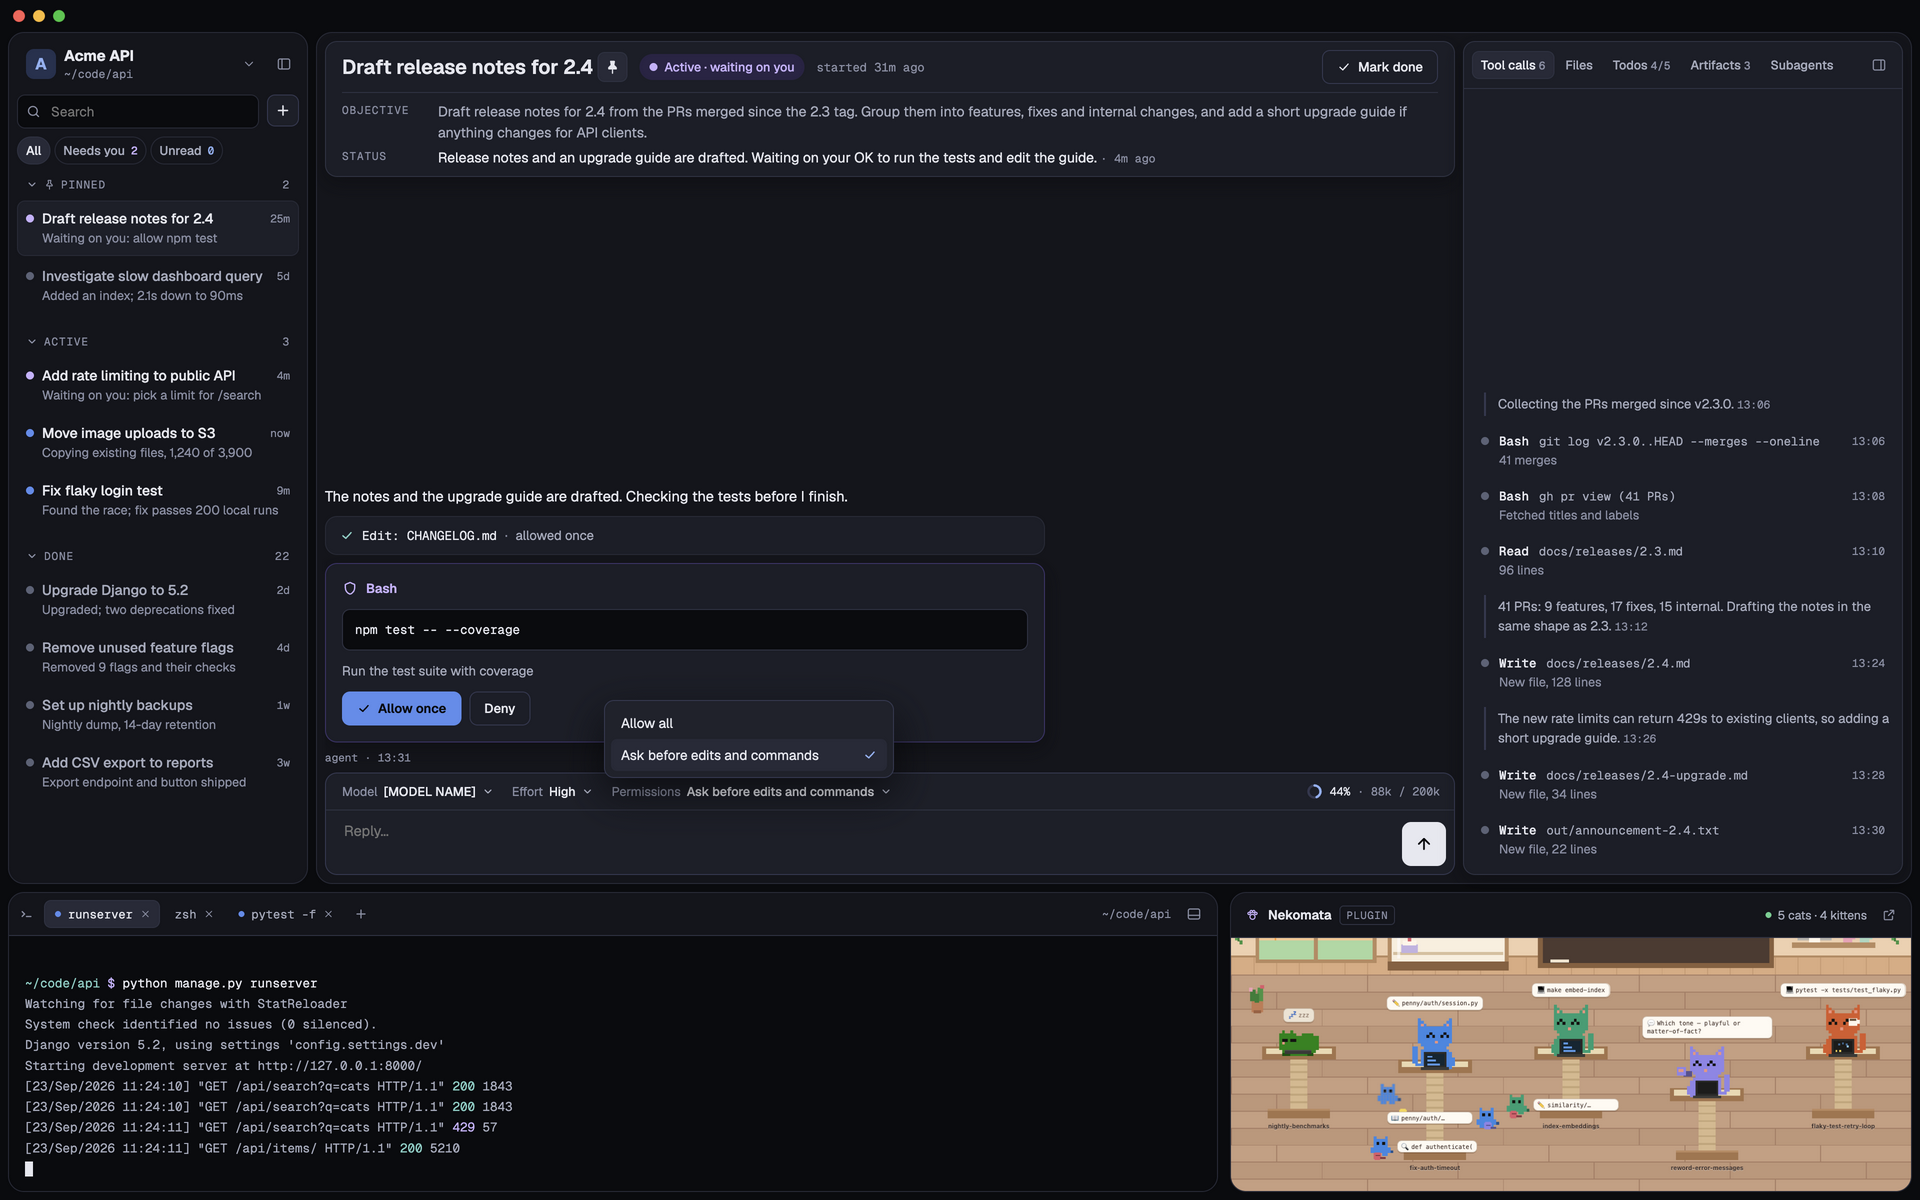
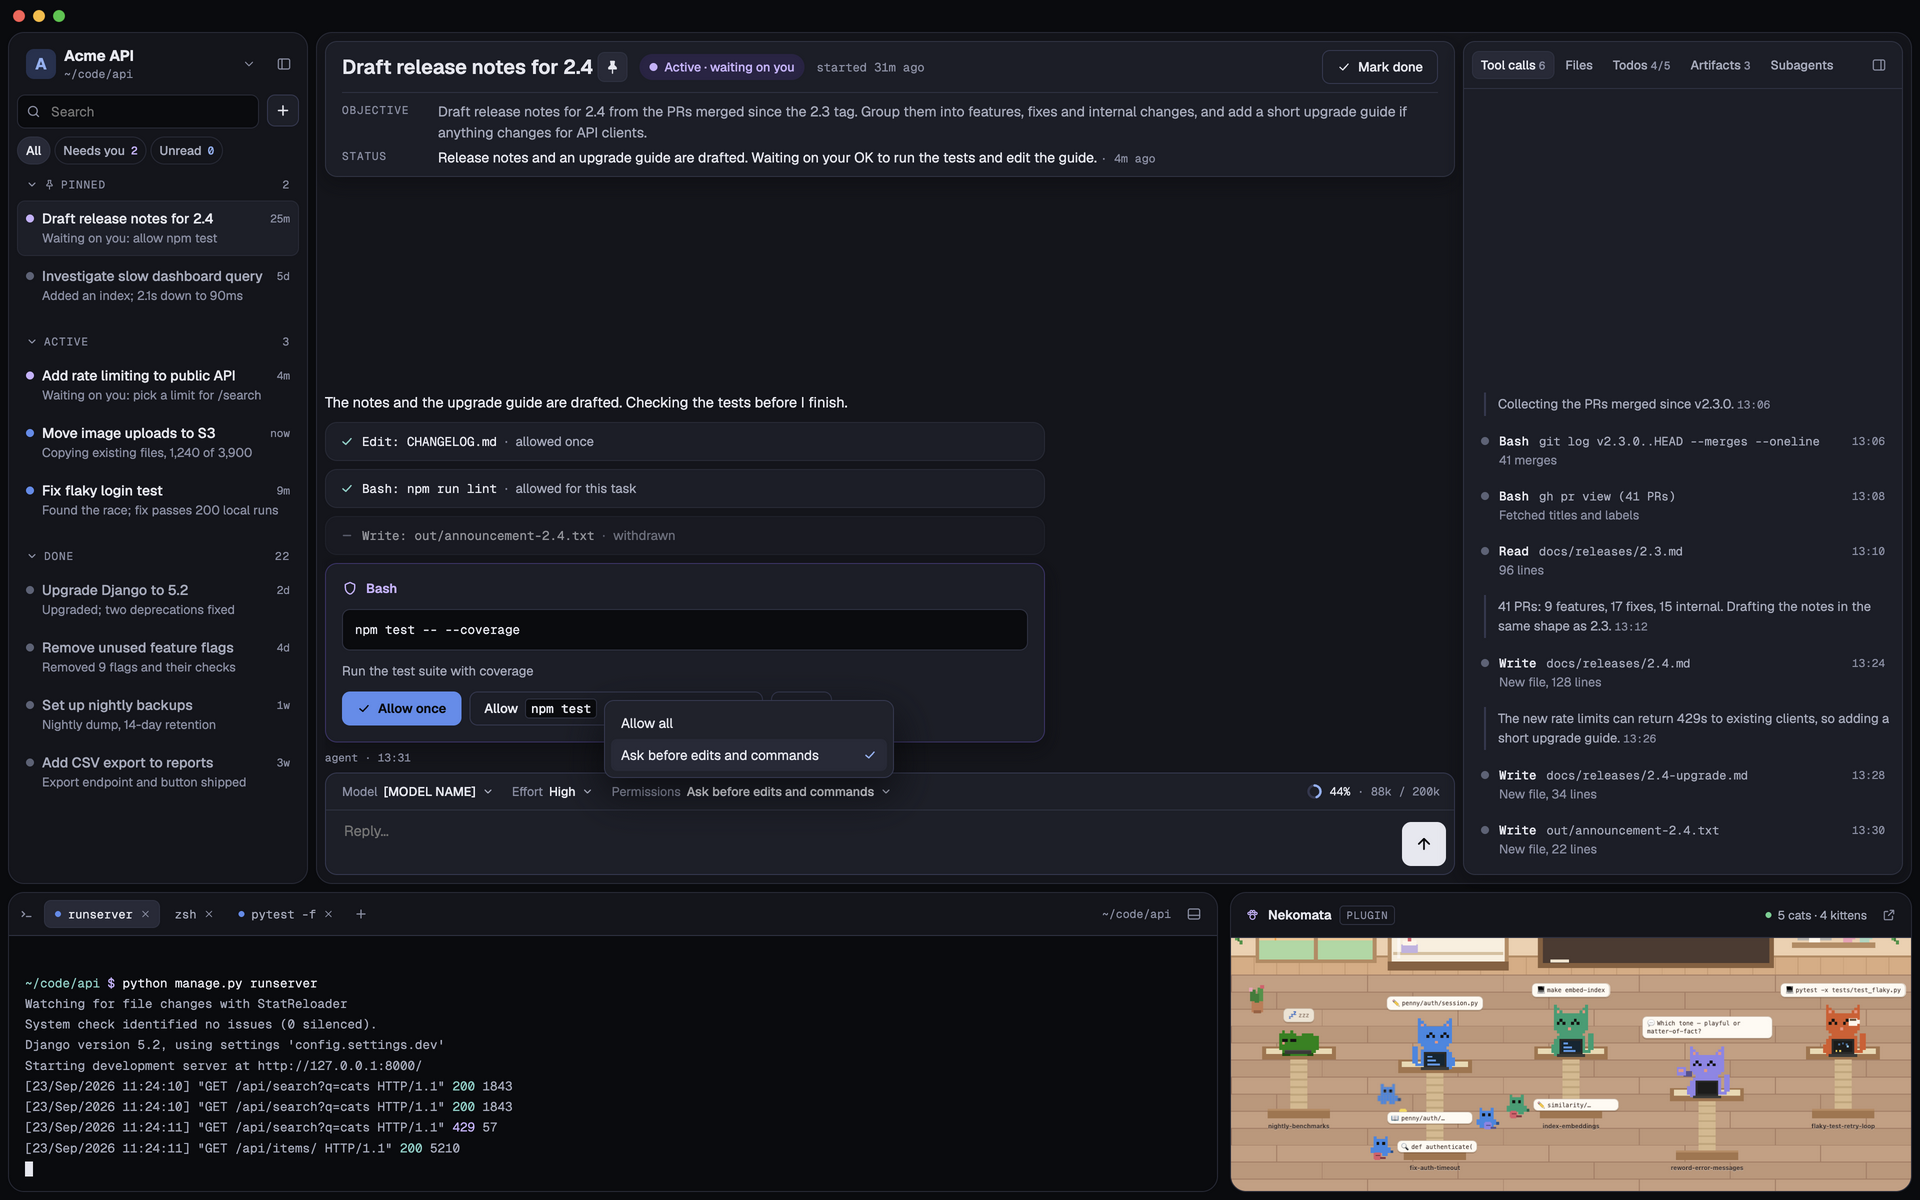
P11-03: design Allow for this task on the permission card

Changed region(s): [[0.1562, 0.4008, 0.4375, 0.4625], [0.1875, 0.3083, 0.4375, 0.37], [0.25, 0.5858, 0.3125, 0.6167]]

diff --git a/docs/design/html/24-permissions-picker.html b/docs/design/html/24-permissions-picker.html
@@ -108,11 +108,13 @@ a{color:#8FB2F5}a:hover{color:#B5CBF8}
 <div style="flex-shrink: 0; display: flex; flex-direction: column; gap: 8px; max-width: 720px">
 <div style="display: flex; flex-direction: column; gap: 10px;  font-size: 14.5px; line-height: 1.6; color: #E6E8F0"><p style="margin: 0">The notes and the upgrade guide are drafted. Checking the tests before I finish.</p></div>
 <div role="region" aria-label="Permission request" style="display: flex; align-items: center; gap: 8px; padding: 10px 14px; background: #1C1E28; border: 1px solid #272A37; border-radius: 12px; font-size: 13px; color: #A6ABBD; white-space: nowrap; overflow: hidden"><span style="display: flex; color: #7FD1C7"><svg width="14" height="14" viewBox="0 0 24 24" fill="none" stroke="currentColor" stroke-width="2.4" stroke-linecap="round" stroke-linejoin="round"><path d="M5 12.5 10 17l9-10"></path></svg></span><span style="font-family: 'Geist Mono', ui-monospace, monospace; font-size: 12.5px; color: #E6E8F0; overflow: hidden; text-overflow: ellipsis">Edit: CHANGELOG.md</span><span style="flex-shrink: 0; color: #8A8FA5">·</span><span style="color: #A6ABBD; overflow: hidden; text-overflow: ellipsis">allowed once</span></div>
+<div role="region" aria-label="Permission request" style="display: flex; align-items: center; gap: 8px; padding: 10px 14px; background: #1C1E28; border: 1px solid #272A37; border-radius: 12px; font-size: 13px; color: #A6ABBD; white-space: nowrap; overflow: hidden"><span style="display: flex; color: #7FD1C7"><svg width="14" height="14" viewBox="0 0 24 24" fill="none" stroke="currentColor" stroke-width="2.4" stroke-linecap="round" stroke-linejoin="round"><path d="M5 12.5 10 17l9-10"></path></svg></span><span style="font-family: 'Geist Mono', ui-monospace, monospace; font-size: 12.5px; color: #E6E8F0; overflow: hidden; text-overflow: ellipsis">Bash: npm run lint</span><span style="flex-shrink: 0; color: #8A8FA5">·</span><span style="color: #A6ABBD; overflow: hidden; text-overflow: ellipsis">allowed for this task</span></div>
+<div role="region" aria-label="Permission request" style="display: flex; align-items: center; gap: 8px; padding: 10px 14px; background: #1C1E28; border: 1px solid #272A37; border-radius: 12px; font-size: 13px; color: #A6ABBD; white-space: nowrap; overflow: hidden; opacity: 0.6"><span style="display: flex; color: #8A8FA5"><svg width="14" height="14" viewBox="0 0 24 24" fill="none" stroke="currentColor" stroke-width="2.4" stroke-linecap="round" stroke-linejoin="round"><path d="M6 12h12"></path></svg></span><span style="font-family: 'Geist Mono', ui-monospace, monospace; font-size: 12.5px; color: #E6E8F0; overflow: hidden; text-overflow: ellipsis">Write: out/announcement-2.4.txt</span><span style="flex-shrink: 0; color: #8A8FA5">·</span><span style="color: #A6ABBD; overflow: hidden; text-overflow: ellipsis">withdrawn</span></div>
 <div role="form" aria-label="Permission request" style="display: flex; flex-direction: column; gap: 12px; padding: 16px; background: #1C1E28; border: 1px solid #3B3366; border-radius: 12px; box-shadow: 0 6px 20px rgba(0,0,0,0.25)">
 <div style="display: flex; align-items: center; gap: 8px; color: #C8B2FF; font-size: 13px; font-weight: 600"><svg width="16" height="16" viewBox="0 0 24 24" fill="none" stroke="currentColor" stroke-width="2" stroke-linecap="round" stroke-linejoin="round"><path d="M12 3 5 6v5c0 4.4 3 8.3 7 9.5 4-1.2 7-5.1 7-9.5V6z"></path></svg>Bash</div>
 <pre style="margin: 0; padding: 10px 12px; background: #0A0B0F; border: 1px solid #2E3242; border-radius: 8px; font-family: 'Geist Mono', ui-monospace, monospace; font-size: 12.5px; line-height: 1.55; color: #E6E8F0; white-space: pre-wrap; overflow-wrap: anywhere">npm test -- --coverage</pre>
 <div style="font-size: 13px; color: #A6ABBD">Run the test suite with coverage</div>
-<div style="display: flex; align-items: center; gap: 8px"><button type="button" style="display: flex; align-items: center; justify-content: center; gap: 7px; height: 34px; padding: 0 14px; border-radius: 8px; font: inherit; font-size: 13px; cursor: pointer; white-space: nowrap; background: #5B8DEF; color: #0A0B0F; border: 1px solid #5B8DEF; font-weight: 600"><svg width="14" height="14" viewBox="0 0 24 24" fill="none" stroke="currentColor" stroke-width="2.4" stroke-linecap="round" stroke-linejoin="round"><path d="M5 12.5 10 17l9-10"></path></svg>Allow once</button><button type="button" style="display: flex; align-items: center; justify-content: center; gap: 7px; height: 34px; padding: 0 14px; border-radius: 8px; font: inherit; font-size: 13px; cursor: pointer; white-space: nowrap; background: transparent; color: #E6E8F0; border: 1px solid #343850; font-weight: 500">Deny</button></div>
+<div style="display: flex; align-items: center; gap: 8px"><button type="button" style="display: flex; align-items: center; justify-content: center; gap: 7px; height: 34px; padding: 0 14px; border-radius: 8px; font: inherit; font-size: 13px; cursor: pointer; white-space: nowrap; background: #5B8DEF; color: #0A0B0F; border: 1px solid #5B8DEF; font-weight: 600"><svg width="14" height="14" viewBox="0 0 24 24" fill="none" stroke="currentColor" stroke-width="2.4" stroke-linecap="round" stroke-linejoin="round"><path d="M5 12.5 10 17l9-10"></path></svg>Allow once</button><button type="button" style="display: flex; align-items: center; justify-content: center; gap: 7px; height: 34px; padding: 0 14px; border-radius: 8px; font: inherit; font-size: 13px; cursor: pointer; white-space: nowrap; background: transparent; color: #E6E8F0; border: 1px solid #343850; font-weight: 500">Allow<code style="font-family: 'Geist Mono', ui-monospace, monospace; font-size: 12.5px; padding: 1px 5px; background: #0A0B0F; border: 1px solid #2E3242; border-radius: 4px">npm test</code>commands for this task</button><button type="button" style="display: flex; align-items: center; justify-content: center; gap: 7px; height: 34px; padding: 0 14px; border-radius: 8px; font: inherit; font-size: 13px; cursor: pointer; white-space: nowrap; background: transparent; color: #E6E8F0; border: 1px solid #343850; font-weight: 500">Deny</button></div>
 </div>
 <span style="font-family: 'Geist Mono', ui-monospace, monospace; font-size: 11px; color: #8A8FA5">agent · 13:31</span>
 </div>

diff --git a/docs/design/html/23-permission-card.html b/docs/design/html/23-permission-card.html
@@ -109,7 +109,12 @@ a{color:#8FB2F5}a:hover{color:#B5CBF8}
 <div style="display: flex; flex-direction: column; gap: 10px;  font-size: 14.5px; line-height: 1.6; color: #E6E8F0"><p style="margin: 0">The notes and the upgrade guide are drafted. Checking the tests before I finish.</p></div>
 <div role="region" aria-label="Permission request" style="display: flex; align-items: center; gap: 8px; padding: 10px 14px; background: #1C1E28; border: 1px solid #272A37; border-radius: 12px; font-size: 13px; color: #A6ABBD; white-space: nowrap; overflow: hidden"><span style="display: flex; color: #7FD1C7"><svg width="14" height="14" viewBox="0 0 24 24" fill="none" stroke="currentColor" stroke-width="2.4" stroke-linecap="round" stroke-linejoin="round"><path d="M5 12.5 10 17l9-10"></path></svg></span><span style="font-family: 'Geist Mono', ui-monospace, monospace; font-size: 12.5px; color: #E6E8F0; overflow: hidden; text-overflow: ellipsis">Edit: CHANGELOG.md</span><span style="flex-shrink: 0; color: #8A8FA5">·</span><span style="color: #A6ABBD; overflow: hidden; text-overflow: ellipsis">allowed once</span></div>
 <div role="region" aria-label="Permission request" style="display: flex; align-items: center; gap: 8px; padding: 10px 14px; background: #1C1E28; border: 1px solid #272A37; border-radius: 12px; font-size: 13px; color: #A6ABBD; white-space: nowrap; overflow: hidden"><span style="display: flex; color: #E58FA8"><svg width="14" height="14" viewBox="0 0 24 24" fill="none" stroke="currentColor" stroke-width="2.4" stroke-linecap="round" stroke-linejoin="round"><path d="M6 6l12 12M18 6 6 18"></path></svg></span><span style="font-family: 'Geist Mono', ui-monospace, monospace; font-size: 12.5px; color: #E6E8F0; overflow: hidden; text-overflow: ellipsis">Bash: rm -rf dist</span><span style="flex-shrink: 0; color: #8A8FA5">·</span><span style="color: #A6ABBD; overflow: hidden; text-overflow: ellipsis">denied: “Keep dist, the smoke test reads it.”</span></div>
-<div role="region" aria-label="Permission request" style="display: flex; align-items: center; gap: 8px; padding: 10px 14px; background: #1C1E28; border: 1px solid #272A37; border-radius: 12px; font-size: 13px; color: #A6ABBD; white-space: nowrap; overflow: hidden; opacity: 0.6"><span style="display: flex; color: #8A8FA5"><svg width="14" height="14" viewBox="0 0 24 24" fill="none" stroke="currentColor" stroke-width="2.4" stroke-linecap="round" stroke-linejoin="round"><path d="M6 12h12"></path></svg></span><span style="font-family: 'Geist Mono', ui-monospace, monospace; font-size: 12.5px; color: #E6E8F0; overflow: hidden; text-overflow: ellipsis">Write: out/announcement-2.4.txt</span><span style="flex-shrink: 0; color: #8A8FA5">·</span><span style="color: #A6ABBD; overflow: hidden; text-overflow: ellipsis">withdrawn</span></div>
+<div role="form" aria-label="Permission request" style="display: flex; flex-direction: column; gap: 12px; padding: 16px; background: #1C1E28; border: 1px solid #3B3366; border-radius: 12px; box-shadow: 0 6px 20px rgba(0,0,0,0.25)">
+<div style="display: flex; align-items: center; gap: 8px; color: #C8B2FF; font-size: 13px; font-weight: 600"><svg width="16" height="16" viewBox="0 0 24 24" fill="none" stroke="currentColor" stroke-width="2" stroke-linecap="round" stroke-linejoin="round"><path d="M12 3 5 6v5c0 4.4 3 8.3 7 9.5 4-1.2 7-5.1 7-9.5V6z"></path></svg>Bash</div>
+<pre style="margin: 0; padding: 10px 12px; background: #0A0B0F; border: 1px solid #2E3242; border-radius: 8px; font-family: 'Geist Mono', ui-monospace, monospace; font-size: 12.5px; line-height: 1.55; color: #E6E8F0; white-space: pre-wrap; overflow-wrap: anywhere">npm test -- --coverage</pre>
+<div style="font-size: 13px; color: #A6ABBD">Run the test suite with coverage</div>
+<div style="display: flex; align-items: center; gap: 8px"><button type="button" style="display: flex; align-items: center; justify-content: center; gap: 7px; height: 34px; padding: 0 14px; border-radius: 8px; font: inherit; font-size: 13px; cursor: pointer; white-space: nowrap; background: #5B8DEF; color: #0A0B0F; border: 1px solid #5B8DEF; font-weight: 600"><svg width="14" height="14" viewBox="0 0 24 24" fill="none" stroke="currentColor" stroke-width="2.4" stroke-linecap="round" stroke-linejoin="round"><path d="M5 12.5 10 17l9-10"></path></svg>Allow once</button><button type="button" style="display: flex; align-items: center; justify-content: center; gap: 7px; height: 34px; padding: 0 14px; border-radius: 8px; font: inherit; font-size: 13px; cursor: pointer; white-space: nowrap; background: transparent; color: #E6E8F0; border: 1px solid #343850; font-weight: 500">Allow<code style="font-family: 'Geist Mono', ui-monospace, monospace; font-size: 12.5px; padding: 1px 5px; background: #0A0B0F; border: 1px solid #2E3242; border-radius: 4px">npm test</code>commands for this task</button><button type="button" style="display: flex; align-items: center; justify-content: center; gap: 7px; height: 34px; padding: 0 14px; border-radius: 8px; font: inherit; font-size: 13px; cursor: pointer; white-space: nowrap; background: transparent; color: #E6E8F0; border: 1px solid #343850; font-weight: 500">Deny</button></div>
+</div>
 <div role="form" aria-label="Permission request" style="display: flex; flex-direction: column; gap: 12px; padding: 16px; background: #1C1E28; border: 1px solid #3B3366; border-radius: 12px; box-shadow: 0 6px 20px rgba(0,0,0,0.25)">
 <div style="display: flex; align-items: center; gap: 8px; color: #C8B2FF; font-size: 13px; font-weight: 600"><svg width="16" height="16" viewBox="0 0 24 24" fill="none" stroke="currentColor" stroke-width="2" stroke-linecap="round" stroke-linejoin="round"><path d="M12 3 5 6v5c0 4.4 3 8.3 7 9.5 4-1.2 7-5.1 7-9.5V6z"></path></svg>Edit<span style="margin-left: auto; font-size: 12px; font-weight: 400; color: #8A8FA5">subagent · Upgrade guide</span></div>
 <div style="font-family: 'Geist Mono', ui-monospace, monospace; font-size: 12.5px; color: #8FB2F5">docs/releases/2.4-upgrade.md</div>

diff --git a/docs/design/README.md b/docs/design/README.md
@@ -29,8 +29,8 @@ illustrative. Tokens are in `tokens.md`; exact markup per screen in `html/`.
 | 20 · First run | No workspace yet: Open folder / Create a new folder. | ![20 · First run](screens/20-first-run.png) |
 | 21 · Settings | Modal; Agent section shown. | ![21 · Settings](screens/21-settings.png) |
 | 22 · Keymap | Every shortcut. Also in `../keymap.md`. | ![22 · Keymap](screens/22-keymap.png) |
-| 23 · Permission card | Ask before edits and commands: a subagent's Edit waiting on you, with Deny's note field open; cards collapsed to one line once allowed once, denied (with the note) or withdrawn. Built from the question card; no original design. | ![23 · Permission card](screens/23-permission-card.png) |
-| 24 · Permissions picker | The input bar's Permissions picker open on Allow all and Ask before edits and commands, over an open Bash card. | ![24 · Permissions picker](screens/24-permissions-picker.png) |
+| 23 · Permission card | Ask before edits and commands: a Bash call waiting on you with Allow once, Allow for this task (its command prefix) and Deny, and a subagent's Edit with Deny's note field open; cards collapsed to one line once allowed once or denied (with the note). Built from the question card; no original design. | ![23 · Permission card](screens/23-permission-card.png) |
+| 24 · Permissions picker | The input bar's Permissions picker open on Allow all and Ask before edits and commands, over an open Bash card; above it, cards collapsed to one line once allowed once, allowed for this task or withdrawn. | ![24 · Permissions picker](screens/24-permissions-picker.png) |
 | Interaction map | Every screen, state and action as a graph. | ![Interaction map](screens/interaction-map.png) |
 | Decisions | The decisions board. | ![Decisions](screens/decisions.png) |
 | Icon exploration | Variations of the chosen icon; W07 is the one. | ![Icon exploration](screens/icon-exploration.png) |
